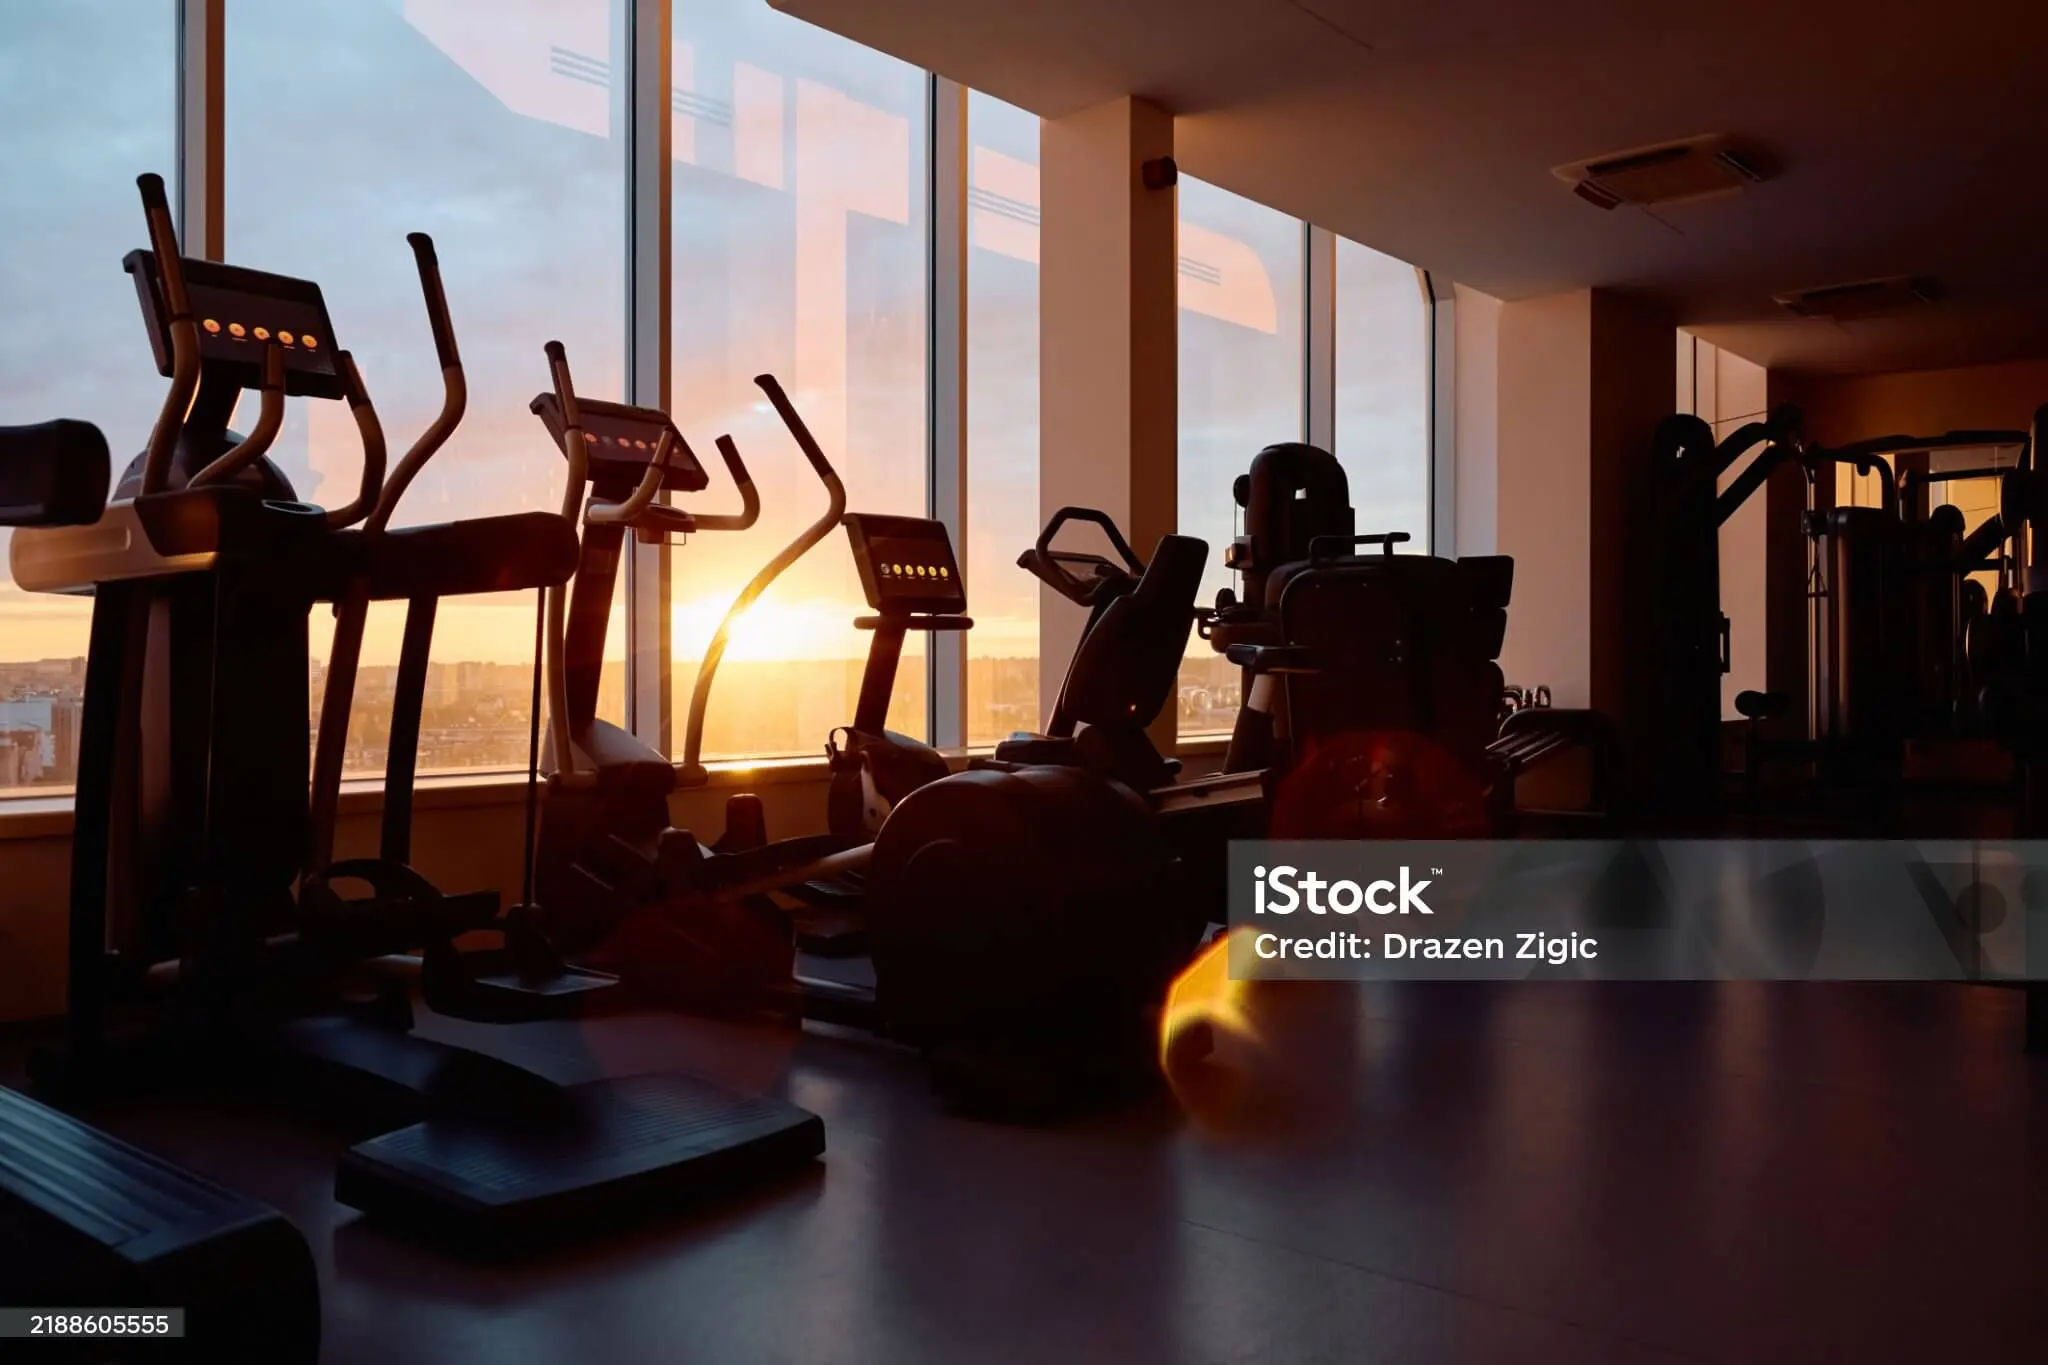
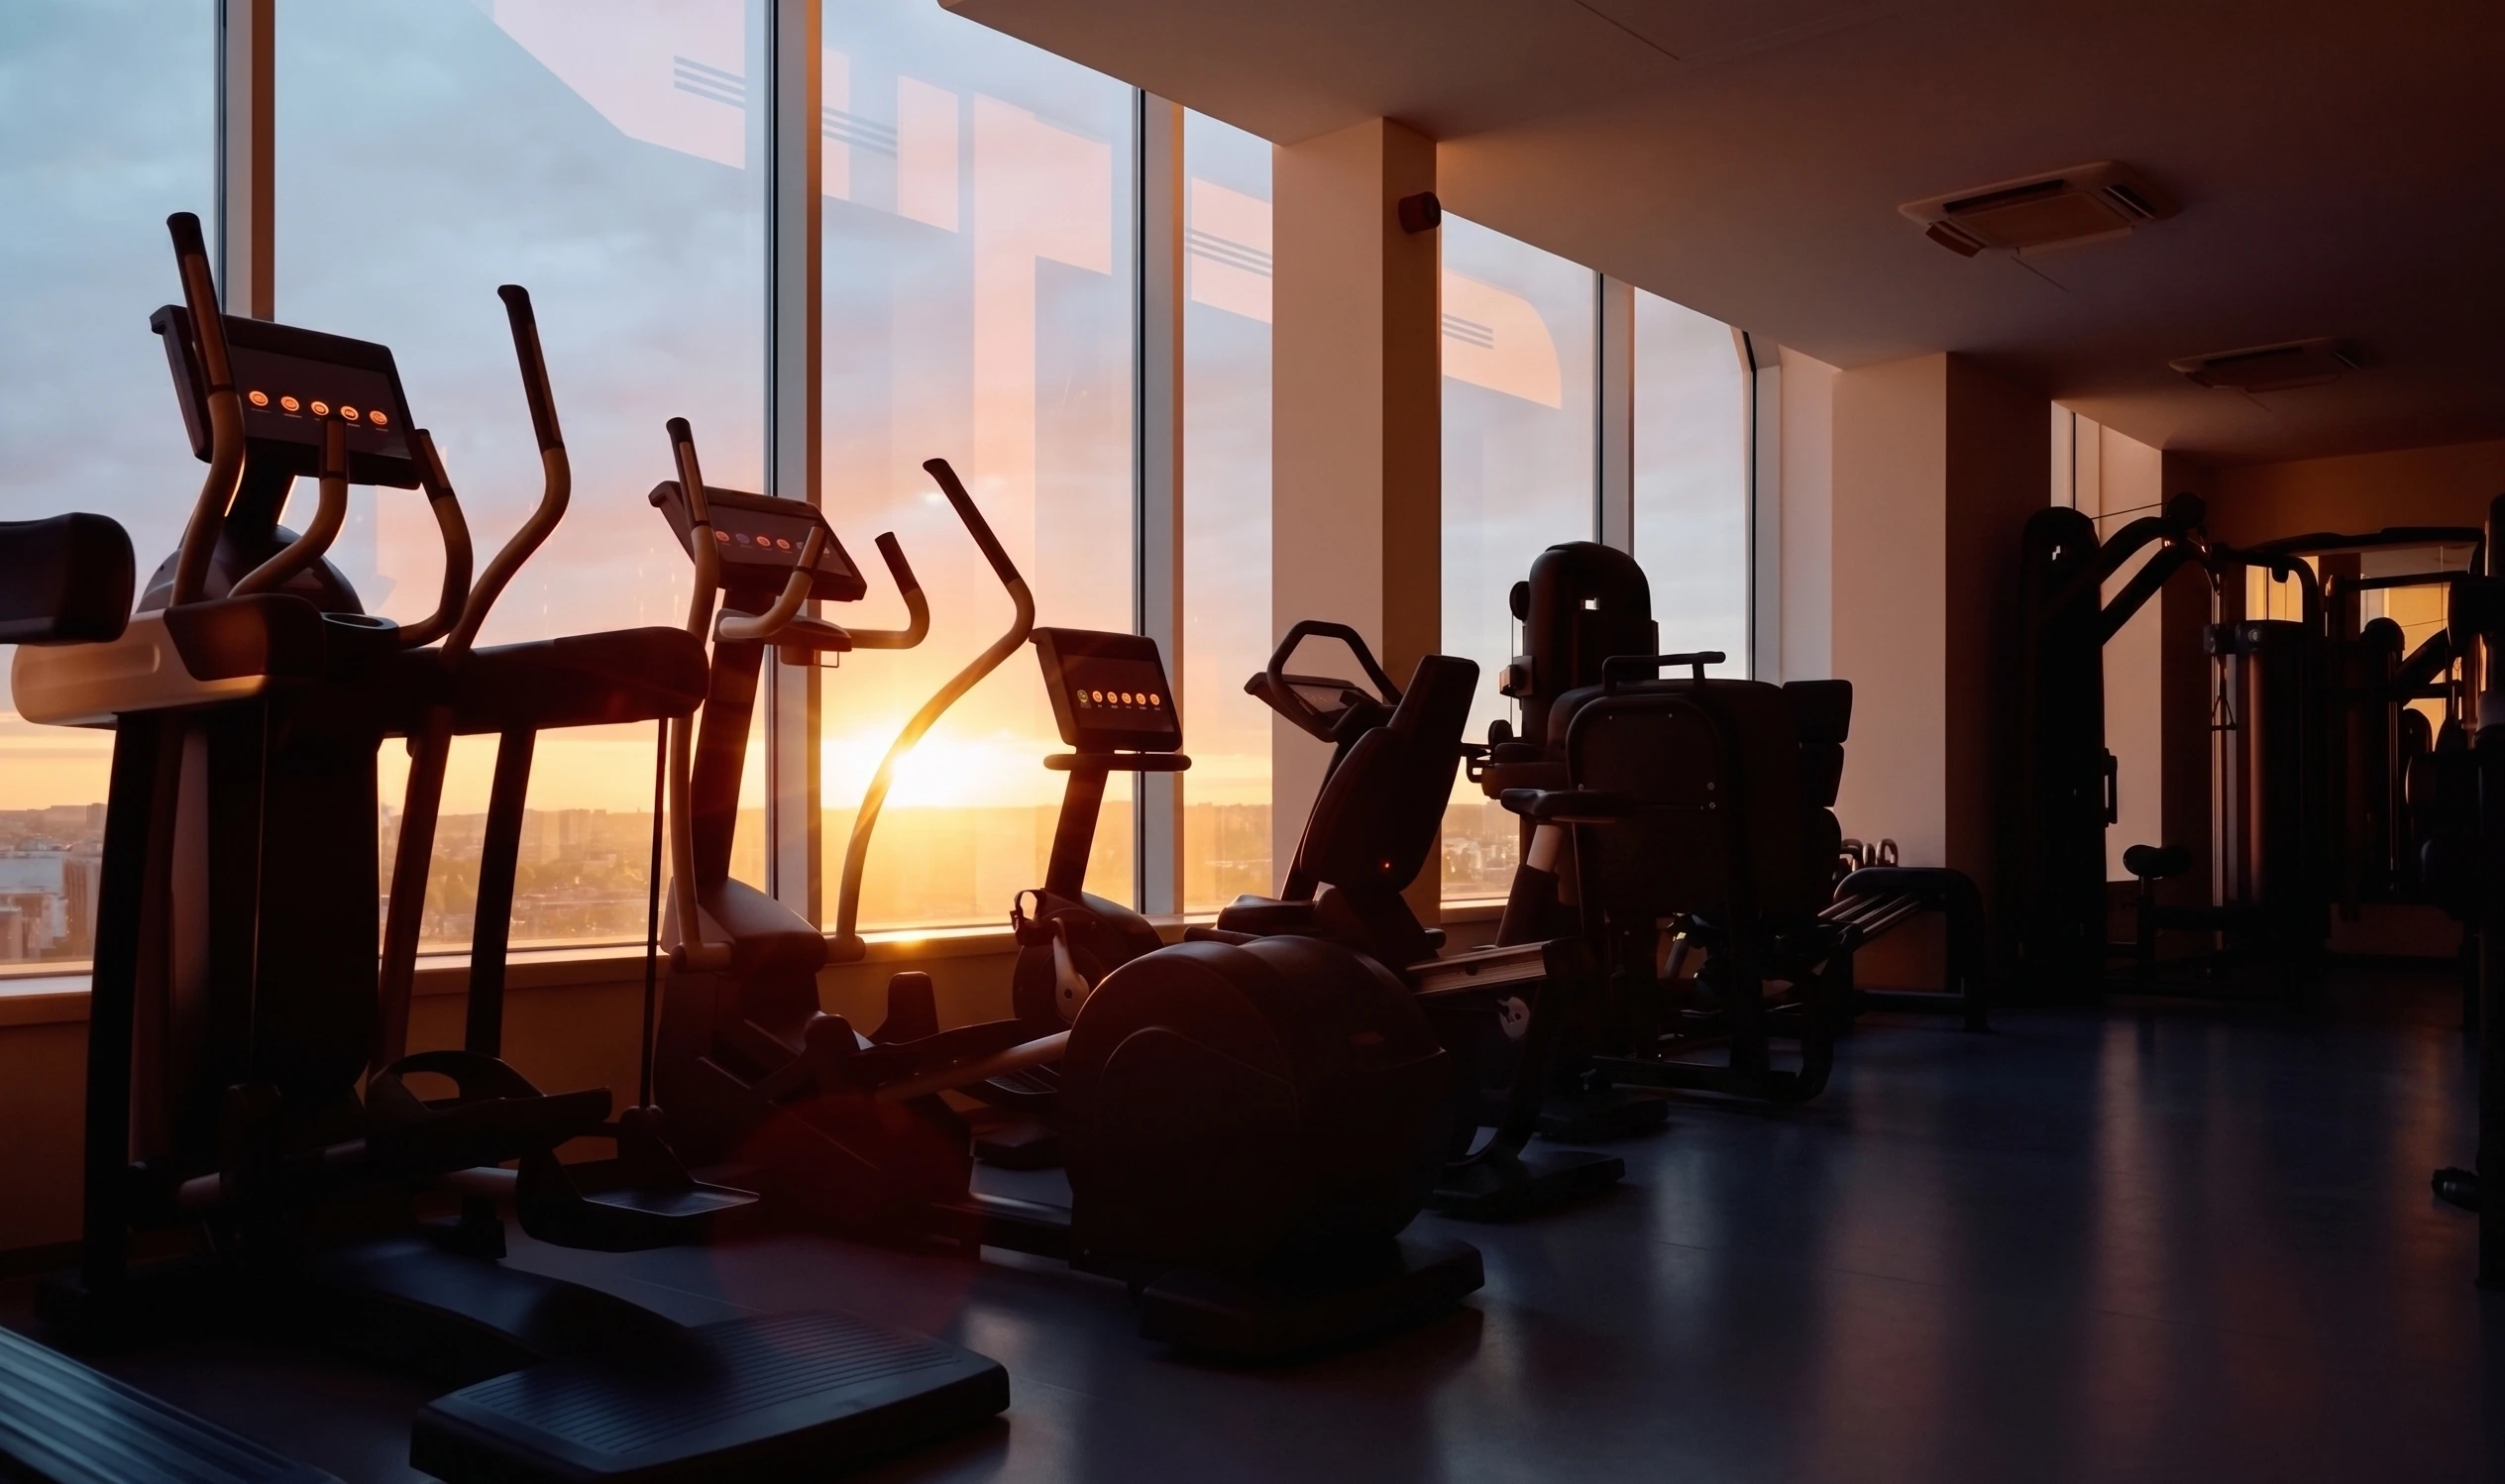
Mejoras

diff --git a/index.html b/index.html
@@ -3,21 +3,33 @@
   <head>
     <meta charset="UTF-8" />
     <meta name="viewport" content="width=device-width, initial-scale=1.0" />
-    <meta name="description" content="FitLab — Entrenamiento personalizado, clases grupales y nutrición en Buenos Aires. Transformá tu cuerpo con nuestros planes a medida." />
+    <meta
+      name="description"
+      content="FitLab — Entrenamiento personalizado, clases grupales y nutrición en Buenos Aires. Transformá tu cuerpo con nuestros planes a medida."
+    />
     <meta name="theme-color" content="#1a1a1a" />
     <meta name="robots" content="index, follow" />
-    <meta name="keywords" content="gym, gimnasio, entrenamiento personalizado, clases grupales, nutrición, Buenos Aires, FitLab" />
+    <meta
+      name="keywords"
+      content="gym, gimnasio, entrenamiento personalizado, clases grupales, nutrición, Buenos Aires, FitLab"
+    />
     <meta name="author" content="GO Web Solutions" />
     <title>FitLab | Entrenamiento Personalizado y Planes en Buenos Aires</title>
 
     <meta property="og:type" content="website" />
     <meta property="og:title" content="FitLab | Tu Gym de Alto Rendimiento" />
-    <meta property="og:description" content="Entrenamiento personalizado, clases grupales y planes nutricionales. ¡Asociate hoy y transformá tu cuerpo!" />
+    <meta
+      property="og:description"
+      content="Entrenamiento personalizado, clases grupales y planes nutricionales. ¡Asociate hoy y transformá tu cuerpo!"
+    />
     <meta property="og:image" content="images/gimnasio-hero.webp" />
 
     <meta name="twitter:card" content="summary_large_image" />
     <meta name="twitter:title" content="FitLab | Entrenamiento Personalizado" />
-    <meta name="twitter:description" content="Transformá tu cuerpo con nuestros planes personalizados. ¡Asociate hoy!" />
+    <meta
+      name="twitter:description"
+      content="Transformá tu cuerpo con nuestros planes personalizados. ¡Asociate hoy!"
+    />
     <meta name="twitter:image" content="images/gimnasio-hero.webp" />
 
     <link rel="icon" href="images/imagesfavicon.webp" />
@@ -204,7 +216,7 @@
         <h2>Contacto</h2>
         <form id="contact-form" action="https://gonzalo4.app.n8n.cloud/webhook/contacto-fitlab" method="POST">
           <!-- Honeypot anti-spam -->
-          <div style="position:absolute;left:-9999px;top:-9999px;" aria-hidden="true">
+          <div style="position: absolute; left: -9999px; top: -9999px" aria-hidden="true">
             <label for="website">No completar</label>
             <input type="text" id="website" name="website" tabindex="-1" autocomplete="off" />
           </div>
@@ -213,7 +225,12 @@
           <label for="contact-email">Email</label>
           <input type="email" id="contact-email" name="email" placeholder="Ej: [email redacted]" required />
           <label for="contact-message">Mensaje</label>
-          <textarea id="contact-message" name="message" placeholder="Hola, quiero info sobre los planes..." required></textarea>
+          <textarea
+            id="contact-message"
+            name="message"
+            placeholder="Hola, quiero info sobre los planes..."
+            required
+          ></textarea>
           <div id="form-status"></div>
           <button type="submit" class="btn btn--primary">Enviar Mensaje</button>
         </form>